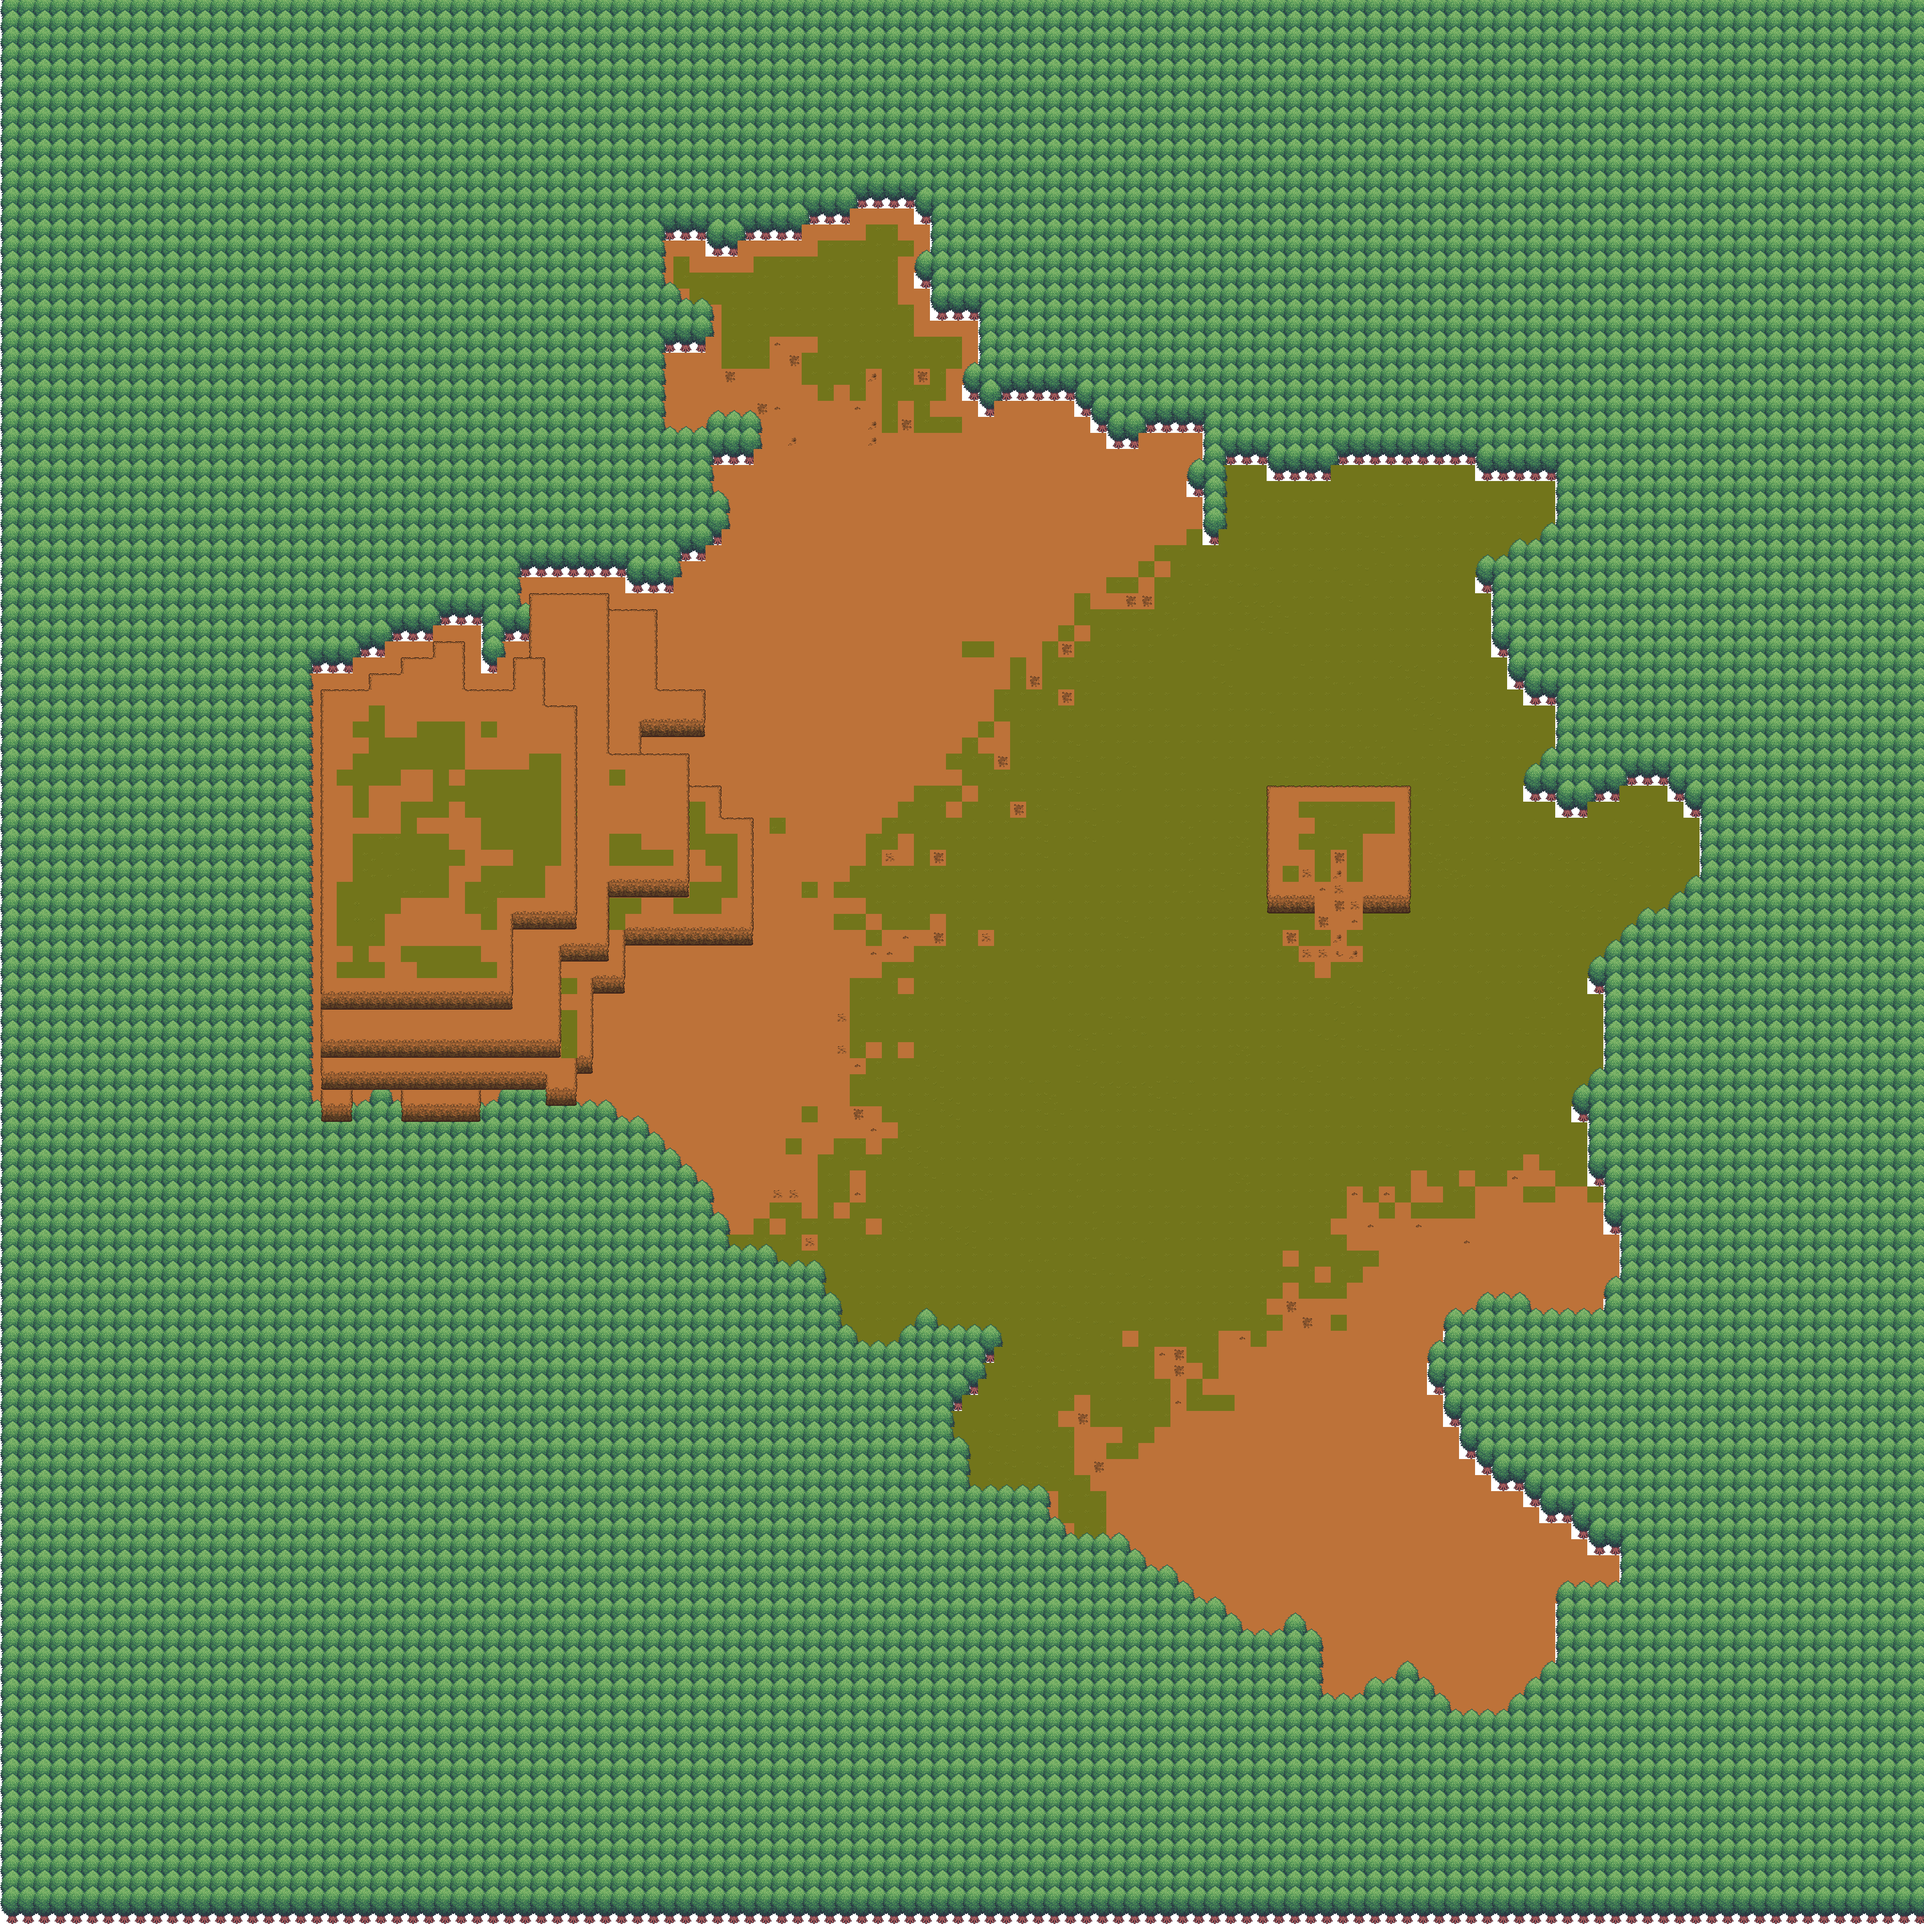
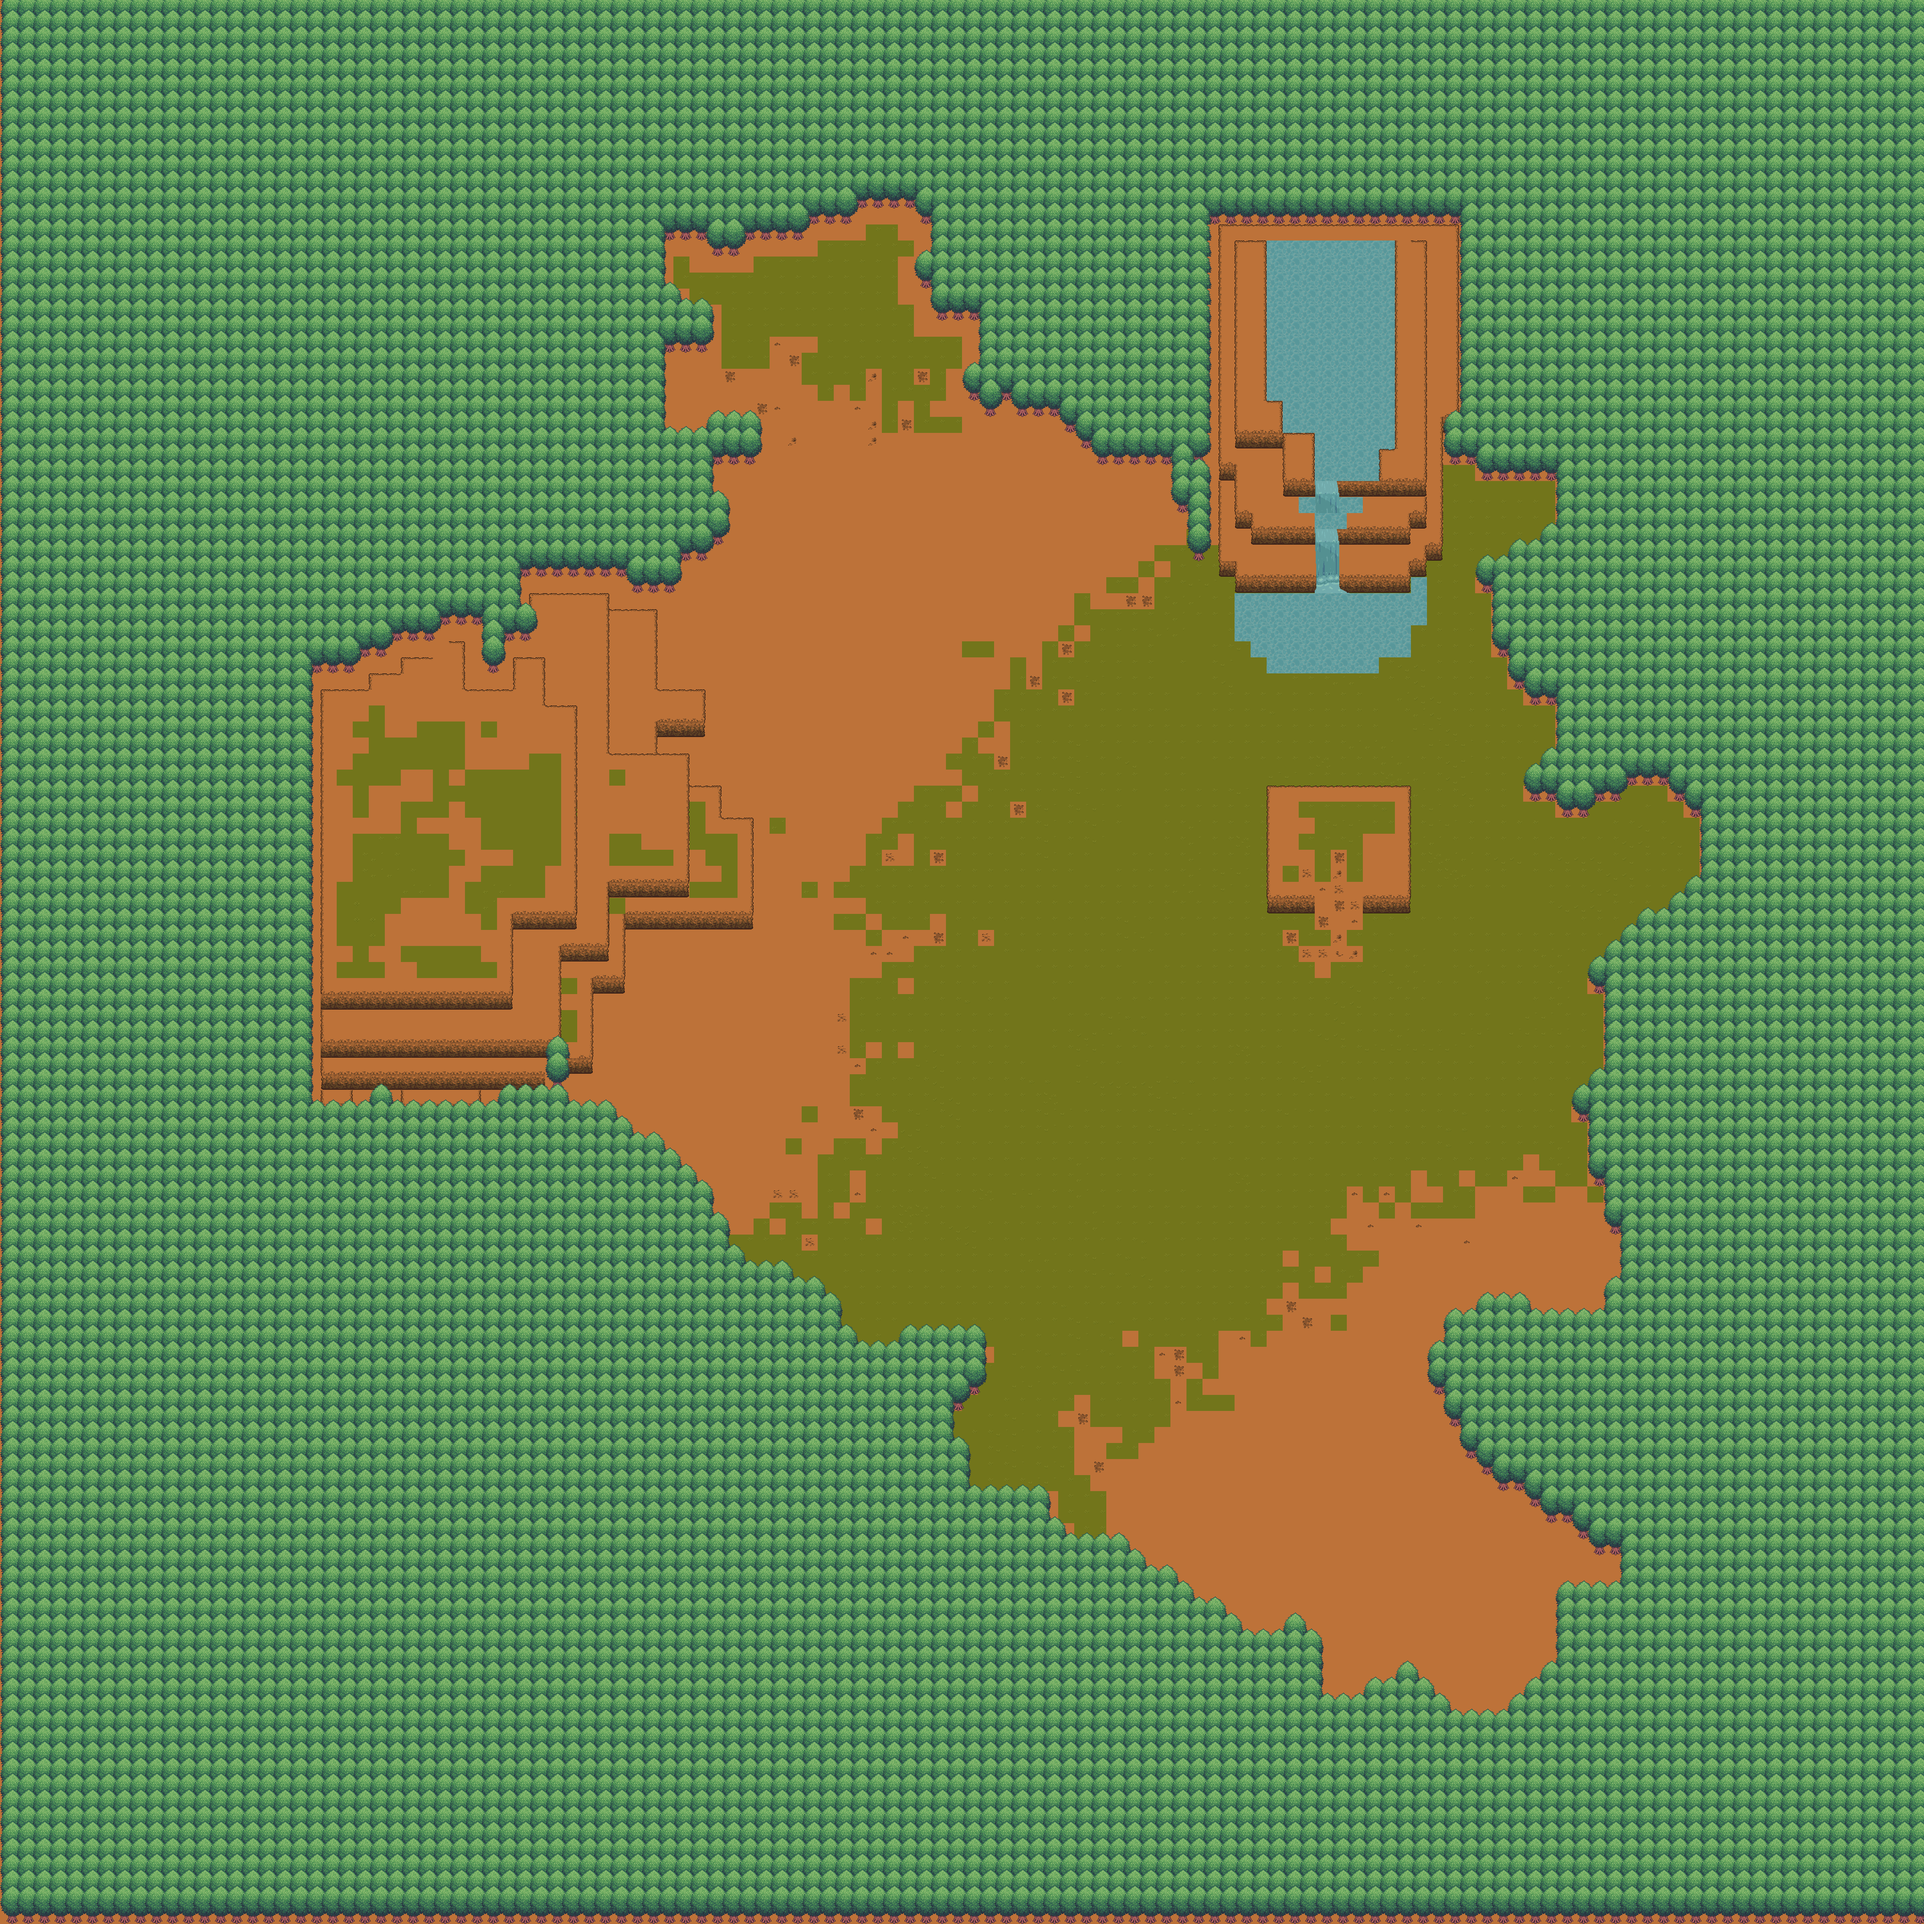
feat: new objects, interactives, etc on the map

diff --git a/levels/level.py b/levels/level.py
@@ -1,7 +1,7 @@
 import pygame
 from settings import WORLD_MAP, TILESIZE, ZOOM
 from utils.enums import LevelType
-from utils.suport import import_csv_layout, import_folder, resize_image, change_value_in_csv
+from utils.suport import *
 from levels.tile import Tile
 from entities.player import Player
 from entities.weapons import Weapon
@@ -31,14 +31,12 @@ class Level:
             #style: layout
             'boundary': import_csv_layout('./storage/map/map_Boundary.csv'),
             'objects': import_csv_layout('./storage/map/map_Objects.csv'),
-            'monuments': import_csv_layout('./storage/map/map_Monuments.csv'),
             'interactives': import_csv_layout('./storage/map/map_Interactives.csv'),
             'entities': import_csv_layout('./storage/map/map_Entities.csv')
         }
 
         self.graphics = {
             'objects': import_folder('./assets/graphics/objects'),
-            'monuments': import_folder('./assets/graphics/monuments'),
             'interactives': import_folder('./assets/graphics/interactives')
         }
 
@@ -50,20 +48,16 @@ class Level:
                         y = row_index * TILESIZE * ZOOM
 
                         if style == 'boundary':
-                            Tile((x, y), (row_index, col_index), int(col), [self.obstacles_sprites], 'invisible')
+                            Tile({'topleft': (x,y)}, (row_index, col_index), int(col), [self.obstacles_sprites], 'invisible')
                         if style == 'objects':
                             surface = self.graphics['objects'][int(col)]
 
-                            Tile((x, y), (row_index, col_index), int(col), [self.visible_sprites, self.obstacles_sprites, self.attackable_sprites], 'object', surface)
-                        if style == 'monuments':
-                            surface = self.graphics['monuments'][int(col)]
-                            
-                            Tile((x, y), (row_index, col_index), int(col), [self.visible_sprites, self.obstacles_sprites], 'monuments', surface)
+                            Tile({'midleft': (x,y)}, (row_index, col_index), int(col), [self.visible_sprites, self.obstacles_sprites, self.attackable_sprites], 'object', surface, inflate_ajust=obj_inflate_ajust(int(col)), hitbox_ajust=obj_hitbox_ajust(int(col)))
                         if style == 'interactives':
                             surface = self.graphics['interactives'][int(col)]
                             activated = bool(int(col))
 
-                            Tile((x, y), (row_index, col_index), int(col), [self.visible_sprites, self.obstacles_sprites, self.attackable_sprites], 'interactive', surface, activated)
+                            Tile({'topleft': (x,y)}, (row_index, col_index), int(col), [self.visible_sprites, self.obstacles_sprites, self.attackable_sprites], 'interactive', surface, activated)
         
                         if style == 'entities':
                             if col == '1':
@@ -93,15 +87,13 @@ class Level:
 
                 if collision_sprites:
                     for target_sprite in collision_sprites:
-                        if target_sprite.sprite_type == 'object':
-                            target_sprite.kill()
-                            change_value_in_csv('./storage/map/map_Objects.csv', target_sprite.original_pos, -1) #-1 = empty space in map
                         if target_sprite.sprite_type == 'interactive':
-                            if target_sprite.activated == False:
-                                target_sprite.image = self.graphics['interactives'][target_sprite.original_value + 1]
-                                target_sprite.activated = True
+                            if target_sprite.original_value == 1:
+                                if target_sprite.activated == False:
+                                    target_sprite.image = self.graphics['interactives'][target_sprite.original_value + 1]
+                                    target_sprite.activated = True
 
-                                change_value_in_csv('./storage/map/map_Interactives.csv', target_sprite.original_pos, target_sprite.original_value + 1) #get the next tile Sprite
+                                    change_value_in_csv('./storage/map/map_Interactives.csv', target_sprite.original_pos, target_sprite.original_value + 1) #get the next tile Sprite
 
     def run(self, events):
         self.set_input_type(events)

diff --git a/utils/suport.py b/utils/suport.py
@@ -13,12 +13,12 @@ def import_folder(path: str):
     for _, __, img_files in walk(path):
         surface_list = [0 for _ in range(len(img_files))]
 
-        for image in img_files:
+        for index, image in enumerate(img_files):
             full_path = path + '/' + image
             image_surf = pygame.image.load(full_path).convert_alpha()
             image_surf = pygame.transform.scale(image_surf, (image_surf.get_width() * ZOOM, image_surf.get_height() * ZOOM))
 
-            surface_list[int(image[:2]) - 1] = image_surf 
+            surface_list[index] = image_surf 
 
         return surface_list
     
@@ -39,3 +39,29 @@ def resize_image(image_path: str, zoom_modificator: float = 1):
     image = pygame.transform.scale(image, (image.get_width() * ZOOM * zoom_modificator, image.get_height() * ZOOM * zoom_modificator))
 
     return image
+
+def obj_inflate_ajust(object_id: int):
+    if object_id == 0:
+        return (0, -20)
+    elif object_id == 11:
+        return (-160, 0)
+    elif object_id == 12:
+        return (-50, -60)
+        
+    return (0, -5)
+
+def obj_hitbox_ajust(object_id: int):
+    if object_id == 1 or object_id == 7:
+        return (-31, 0, -31, 0)
+    elif object_id == 2 or object_id == 8:
+        return (-32, 0, 64, 0)
+    elif object_id == 5:
+        return (-32, 25, 64, -25)
+    elif object_id == 9:
+        return (32, -30, -32, -30)
+    elif object_id == 11:
+        return (0, -80, 0, -80)
+    elif object_id == 15:
+        return (0, -40, 0, -40)
+        
+    return (0, 0, 0, 0)

diff --git a/levels/tile.py b/levels/tile.py
@@ -3,7 +3,7 @@ from utils.enums import OpenMapTileType
 from settings import TILESIZE, ZOOM
 
 class Tile(pygame.sprite.Sprite):
-    def __init__(self, pos: tuple, original_pos: tuple, original_value: int, groups: list, sprite_type: str, surface = pygame.Surface((TILESIZE * ZOOM, TILESIZE * ZOOM)), activated: bool | None = None):
+    def __init__(self, pos: dict, original_pos: tuple, original_value: int, groups: list, sprite_type: str, surface = pygame.Surface((TILESIZE * ZOOM, TILESIZE * ZOOM)), activated: bool | None = None, inflate_ajust: tuple = (0, -5), hitbox_ajust: tuple = (0,0, 0, 0)):
         super().__init__(groups)
 
         self.sprite_type = sprite_type
@@ -14,5 +14,11 @@ class Tile(pygame.sprite.Sprite):
 
         self.activated = activated
 
-        self.rect = self.image.get_rect(topleft = pos)
-        self.hitbox = self.rect.inflate(0, -5)
+        self.rect = self.image.get_rect(**pos)
+        self.hitbox = self.rect.inflate(*inflate_ajust)
+
+        self.hitbox.width -= hitbox_ajust[0]
+        self.hitbox.height += hitbox_ajust[1]
+
+        self.hitbox.left -= hitbox_ajust[2]
+        self.hitbox.top -= hitbox_ajust[3]
